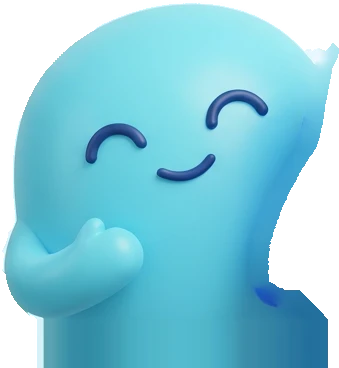
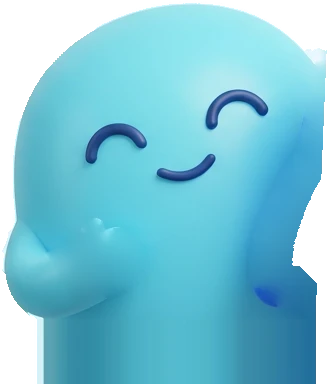
Beranda: animasi hero lebih hidup — menyapa, angin, awan, dan burung
- Siklus sapaan 8 dtk: karakter kiri melambai "hai", karakter tengah melompat (squash & stretch), karakter kanan bersandar, menepuk, dan berkedip
- Hembusan angin 7 dtk: tanaman melengkung, garis angin di langit, daun beterbangan
- Dua awan tambahan melintas penuh; awan lama bergeser lebih jauh
- Sepasang burung siluet mengepakkan sayap melintasi langit
- Lapisan baru dari ilustrasi asli: tangan kiri, lengan kanan, mata kanan, dua daun (total aset ±136 KB)
- Tetap diam seperti gambar aslinya saat prefers-reduced-motion

diff --git a/web/src/pages/employee/HeroScene.tsx b/web/src/pages/employee/HeroScene.tsx
@@ -1,4 +1,4 @@
-import type { CSSProperties } from 'react';
+import type { CSSProperties, ReactNode } from 'react';
 import clsx from 'clsx';
 import sky from '@/assets/home/hero/sky.webp';
 import sunGlow from '@/assets/home/hero/sunGlow.webp';
@@ -8,46 +8,56 @@ import cloudRight from '@/assets/home/hero/cloudRight.webp';
 import cloudLeft from '@/assets/home/hero/cloudLeft.webp';
 import cloudSmall from '@/assets/home/hero/cloudSmall.webp';
 import right from '@/assets/home/hero/right.webp';
+import eyeR1 from '@/assets/home/hero/eyeR1.webp';
+import eyeR2 from '@/assets/home/hero/eyeR2.webp';
 import left from '@/assets/home/hero/left.webp';
+import handL from '@/assets/home/hero/handL.webp';
 import center from '@/assets/home/hero/center.webp';
-import rightArm from '@/assets/home/hero/rightArm.webp';
+import armR from '@/assets/home/hero/armR.webp';
 import plantL from '@/assets/home/hero/plantL.webp';
 import plantR from '@/assets/home/hero/plantR.webp';
 import bubble from '@/assets/home/hero/bubble.webp';
 import dot1 from '@/assets/home/hero/dot1.webp';
 import dot2 from '@/assets/home/hero/dot2.webp';
 import dot3 from '@/assets/home/hero/dot3.webp';
+import leaf1 from '@/assets/home/hero/leaf1.webp';
+import leaf2 from '@/assets/home/hero/leaf2.webp';
 
 // Ilustrasi 3D hero (hero-3d.png, 1376×768) yang dipotong per bagian supaya bisa bergerak.
 // Kotak = [x, y, lebar, tinggi] dalam piksel ilustrasi asli; bagian yang tertutup sudah diisi
-// sehingga gerakan kecil tidak memperlihatkan celah. Dalam posisi diam hasilnya sama dengan gambar aslinya.
+// sehingga gerakan tidak memperlihatkan celah. Dalam posisi diam hasilnya sama dengan gambar aslinya.
 type Box = readonly [number, number, number, number];
 type Point = readonly [number, number];
 
-const SCENE: Box = [0, 0, 1376, 768];
-const BUBBLE: Box = [475, 185, 255, 238];
+const VW = 1376, VH = 768;
+const SCENE: Box = [0, 0, VW, VH];
 const SUN: Point = [1157, 187];
+const BOX = {
+  left: [347, 448, 327, 384],
+  hand: [392, 666, 101, 87],
+  center: [595, 415, 466, 417],
+  right: [979, 437, 320, 395],
+  arm: [992, 609, 208, 85],
+  bubble: [475, 185, 255, 238],
+} as const satisfies Record<string, Box>;
+// Titik poros: kaki tiap karakter, pergelangan tangan kiri, bahu kanan.
+const FOOT = { left: [515, 800], center: [840, 800], right: [1140, 800] } as const satisfies Record<string, Point>;
 
 const pct = (v: number, of: number) => `${(v / of) * 100}%`;
 
-function Layer({
-  src,
-  box,
-  parent = SCENE,
-  origin,
-  className,
-  style,
-}: {
-  src: string;
-  box: Box;
-  parent?: Box;
-  /** Titik poros animasi dalam koordinat ilustrasi. */
-  origin?: Point;
-  className?: string;
-  style?: CSSProperties;
-}) {
-  const [x, y, w, h] = box;
+/** Posisi + poros sebuah kotak di dalam kotak induknya, dalam persen (ikut skala ilustrasi). */
+function place([x, y, w, h]: Box, parent: Box = SCENE, origin?: Point): CSSProperties {
   const [px, py, pw, ph] = parent;
+  return {
+    left: pct(x - px, pw),
+    top: pct(y - py, ph),
+    width: pct(w, pw),
+    height: pct(h, ph),
+    transformOrigin: origin && `${pct(origin[0] - x, w)} ${pct(origin[1] - y, h)}`,
+  };
+}
+
+function Layer({ src, box, parent, origin, className, style }: { src: string; box: Box; parent?: Box; origin?: Point; className?: string; style?: CSSProperties }) {
   return (
     <img
       src={src}
@@ -55,22 +65,56 @@ function Layer({
       draggable={false}
       decoding="async"
       className={clsx('absolute max-w-none select-none', className)}
-      style={{
-        left: pct(x - px, pw),
-        top: pct(y - py, ph),
-        width: pct(w, pw),
-        height: pct(h, ph),
-        transformOrigin: origin && `${pct(origin[0] - x, w)} ${pct(origin[1] - y, h)}`,
-        ...style,
-      }}
+      style={{ ...place(box, parent, origin), ...style }}
     />
   );
 }
 
-const drift = (from: string, to: string, secs: number, delay = 0) =>
-  ({ '--hs-from': from, '--hs-to': to, animationDuration: `${secs}s`, animationDelay: `${delay}s` }) as CSSProperties;
+function Group({ box, origin, className, style, children }: { box: Box; origin?: Point; className?: string; style?: CSSProperties; children: ReactNode }) {
+  return (
+    <div className={clsx('absolute', className)} style={{ ...place(box, SCENE, origin), ...style }}>
+      {children}
+    </div>
+  );
+}
 
-/** Langit, matahari, awan, gelembung chat, dan teman-teman yang menyapa — mengisi wadahnya seperti object-cover. */
+const vars = (v: Record<string, string | number>) => v as CSSProperties;
+
+/** Burung siluet kecil yang mengepakkan sayap (menghadap kanan). */
+function Bird() {
+  return (
+    <svg viewBox="0 0 64 44" className="hs-bird-bob block h-auto w-full overflow-visible">
+      <g fill="#1F4A7A">
+        <path className="hs-flap" d="M20 25C17 13 23 5 32 5 31 13 29 20 28 27Z" opacity=".55" style={{ animationDelay: '-.08s' }} />
+        <path d="M16 25 5 19l3 10Z" />
+        <ellipse cx="30" cy="27" rx="15" ry="11" />
+        <circle cx="45" cy="20" r="8.5" />
+        <path d="m52.5 18.4 6.5 2.6-6.5 2.6Z" fill="#F2B544" />
+        <path className="hs-flap" d="M24 25C22 11 30 3 40 4c-2 8-5 15-8 22Z" />
+      </g>
+      <circle cx="47.6" cy="18.4" r="1.9" fill="#fff" />
+    </svg>
+  );
+}
+
+// Garis angin (koordinat ilustrasi) — muncul saat hembusan, bersamaan dengan daun yang terbang.
+// Semua lewat langit kosong supaya tidak menyilang wajah karakter.
+const WIND = [
+  'M-40 372C150 342 300 405 440 372c40-9 52-40 28-48-18-6-30 12-14 22',
+  'M150 178C300 146 420 204 600 168',
+  'M740 318C880 290 990 350 1150 312c38-10 46-40 22-46-17-4-27 14-11 22',
+  'M880 96C1000 72 1090 118 1240 92',
+];
+
+// Daun yang terbawa angin: titik awal (koordinat ilustrasi) + jalur dalam satuan wadah.
+const LEAVES = [
+  { src: leaf2, at: [300, 600], s: 0.8, delay: 0, path: { '--x1': '16cqw', '--y1': '-16cqh', '--x2': '34cqw', '--y2': '-8cqh', '--x3': '66cqw', '--y3': '-22cqh' } },
+  { src: leaf1, at: [250, 690], s: 0.6, delay: 0.35, path: { '--x1': '20cqw', '--y1': '-6cqh', '--x2': '42cqw', '--y2': '-20cqh', '--x3': '74cqw', '--y3': '-12cqh' } },
+  { src: leaf1, at: [1300, 600], s: 0.7, delay: 0.2, path: { '--x1': '7cqw', '--y1': '-10cqh', '--x2': '13cqw', '--y2': '-4cqh', '--x3': '22cqw', '--y3': '-14cqh' } },
+  { src: leaf2, at: [-40, 260], s: 0.55, delay: 0.5, path: { '--x1': '22cqw', '--y1': '6cqh', '--x2': '48cqw', '--y2': '-2cqh', '--x3': '84cqw', '--y3': '8cqh' } },
+] as const;
+
+/** Langit, matahari, awan, burung, gelembung chat, dan teman-teman yang menyapa — mengisi wadahnya seperti object-cover. */
 export function HeroScene({ className }: { className?: string }) {
   return (
     <div className={clsx('pointer-events-none overflow-hidden [container-type:size]', className)} aria-hidden>
@@ -80,31 +124,72 @@ export function HeroScene({ className }: { className?: string }) {
         <Layer src={sunGlow} box={[1008, 38, 299, 299]} origin={SUN} className="hs-breathe" />
         <Layer src={sunRays} box={[1008, 40, 296, 296]} origin={SUN} className="hs-spin" />
 
-        <Layer src={cloudTop} box={[764, 147, 204, 117]} className="hs-drift" style={drift('-6%', '8%', 15, -4)} />
+        {/* Awan yang melintas penuh dari kiri ke kanan (salinan awan atas) */}
+        <Layer src={cloudTop} box={[0, 40, 140, 80]} className="hs-travel" style={vars({ '--o': 0.95, animationDuration: '38s', animationDelay: '-12s' })} />
+        <Layer src={cloudTop} box={[0, 250, 96, 55]} className="hs-travel" style={vars({ '--o': 0.75, animationDuration: '54s', animationDelay: '-34s' })} />
+
+        <Layer src={cloudTop} box={[764, 147, 204, 117]} className="hs-drift" style={vars({ '--hs-from': '-14%', '--hs-to': '16%', animationDuration: '12s', animationDelay: '-4s' })} />
         {/* Awan yang terpotong tepi gambar / tertutup karakter hanya bergeser ke arah potongannya. */}
-        <Layer src={cloudRight} box={[1209, 307, 167, 143]} className="hs-drift" style={drift('0%', '10%', 18, -9)} />
-        <Layer src={cloudLeft} box={[0, 397, 141, 144]} className="hs-drift" style={drift('0%', '-12%', 20, -3)} />
-        <Layer src={cloudSmall} box={[297, 459, 162, 124]} className="hs-drift" style={drift('-4%', '6%', 13, -6)} />
+        <Layer src={cloudRight} box={[1209, 307, 167, 143]} className="hs-drift" style={vars({ '--hs-from': '0%', '--hs-to': '14%', animationDuration: '14s', animationDelay: '-9s' })} />
+        <Layer src={cloudLeft} box={[0, 397, 141, 144]} className="hs-drift" style={vars({ '--hs-from': '0%', '--hs-to': '-16%', animationDuration: '15s', animationDelay: '-3s' })} />
+        <Layer src={cloudSmall} box={[297, 459, 166, 128]} className="hs-drift" style={vars({ '--hs-from': '-6%', '--hs-to': '8%', animationDuration: '10s', animationDelay: '-6s' })} />
 
-        {/* Karakter kanan di belakang, tangannya di depan karakter tengah — keduanya bergerak bersamaan. */}
-        <Layer src={right} box={[967, 437, 332, 379]} origin={[1130, 790]} className="hs-sway" style={{ animationDelay: '-2.1s' }} />
-        <Layer src={left} box={[347, 448, 339, 368]} origin={[515, 790]} className="hs-sway" />
-        <Layer src={center} box={[595, 415, 492, 401]} origin={[840, 790]} className="hs-hop" />
-        <Layer src={rightArm} box={[992, 622, 17, 54]} origin={[1130, 790]} className="hs-sway" style={{ animationDelay: '-2.1s' }} />
-
-        <Layer src={plantL} box={[217, 601, 160, 199]} origin={[296, 768]} className="hs-leaf" />
-        <Layer src={plantR} box={[1235, 591, 141, 209]} origin={[1305, 768]} className="hs-leaf" style={{ animationDelay: '-2.7s' }} />
-
-        <div
-          className="hs-float absolute"
-          style={{ left: pct(BUBBLE[0], 1376), top: pct(BUBBLE[1], 768), width: pct(BUBBLE[2], 1376), height: pct(BUBBLE[3], 768), transformOrigin: '84% 98%' }}
-        >
-          <Layer src={bubble} box={BUBBLE} parent={BUBBLE} />
-          {/* Titik "sedang mengetik" */}
-          <Layer src={dot1} box={[533, 277, 33, 33]} parent={BUBBLE} className="hs-dot" />
-          <Layer src={dot2} box={[587, 277, 32, 33]} parent={BUBBLE} className="hs-dot" style={{ animationDelay: '.18s' }} />
-          <Layer src={dot3} box={[639, 277, 34, 33]} parent={BUBBLE} className="hs-dot" style={{ animationDelay: '.36s' }} />
+        {/* Sepasang burung siluet */}
+        <div className="hs-bird absolute" style={{ left: '-6%', top: '13%', width: '5%' }}>
+          <Bird />
         </div>
+        <div className="hs-bird absolute" style={{ left: '-10%', top: '20%', width: '3.4%', animationDelay: '.9s' }}>
+          <Bird />
+        </div>
+
+        {/* Karakter kanan (di belakang): bersandar ke tengah lalu menepuk-nepuk, matanya berkedip */}
+        <Group box={BOX.right} origin={FOOT.right} className="hs-right">
+          <Layer src={right} box={BOX.right} parent={BOX.right} />
+          <Layer src={eyeR1} box={[1031, 525, 36, 37]} parent={BOX.right} origin={[1050, 542]} className="hs-blink" />
+          <Layer src={eyeR2} box={[1128, 550, 36, 36]} parent={BOX.right} origin={[1146, 567]} className="hs-blink" />
+        </Group>
+        {/* Karakter kiri: bergoyang sambil melambaikan tangan "hai!" */}
+        <Group box={BOX.left} origin={FOOT.left} className="hs-left">
+          <Layer src={left} box={BOX.left} parent={BOX.left} />
+          <Layer src={handL} box={BOX.hand} parent={BOX.left} origin={[405, 726]} className="hs-wave" />
+        </Group>
+        {/* Karakter tengah: ancang-ancang lalu melompat kegirangan */}
+        <Layer src={center} box={BOX.center} origin={FOOT.center} className="hs-center" />
+        {/* Tangan kanan ada di depan karakter tengah — gerakannya sama persis dengan badannya. */}
+        <Group box={BOX.arm} origin={FOOT.right} className="hs-right">
+          <Layer src={armR} box={BOX.arm} parent={BOX.arm} origin={[1195, 662]} className="hs-pat" />
+        </Group>
+
+        {/* Tanaman tertiup angin */}
+        <Layer src={plantL} box={[217, 601, 160, 207]} origin={[296, 768]} className="hs-gust" />
+        <Layer src={plantR} box={[1235, 591, 141, 217]} origin={[1305, 768]} className="hs-gust" style={{ animationDelay: '.25s' }} />
+
+        <svg viewBox={`0 0 ${VW} ${VH}`} className="absolute inset-0 h-full w-full overflow-visible">
+          <g fill="none" stroke="#fff" strokeWidth="5" strokeLinecap="round">
+            {WIND.map((d, i) => (
+              <path key={d} d={d} pathLength={100} className="hs-wind" style={{ animationDelay: `${i * 0.18}s` }} />
+            ))}
+          </g>
+        </svg>
+
+        <Group box={BOX.bubble} origin={[690, 418]} className="hs-float">
+          <Layer src={bubble} box={BOX.bubble} parent={BOX.bubble} />
+          {/* Titik "sedang mengetik" */}
+          <Layer src={dot1} box={[533, 277, 33, 33]} parent={BOX.bubble} className="hs-dot" />
+          <Layer src={dot2} box={[587, 277, 32, 33]} parent={BOX.bubble} className="hs-dot" style={{ animationDelay: '.18s' }} />
+          <Layer src={dot3} box={[639, 277, 34, 33]} parent={BOX.bubble} className="hs-dot" style={{ animationDelay: '.36s' }} />
+        </Group>
+
+        {LEAVES.map((l, i) => (
+          <img
+            key={i}
+            src={l.src}
+            alt=""
+            draggable={false}
+            className="hs-leaf-fly absolute max-w-none select-none"
+            style={vars({ left: pct(l.at[0], VW), top: pct(l.at[1], VH), width: pct(58, VW), '--s': l.s, animationDelay: `${l.delay}s`, ...l.path })}
+          />
+        ))}
       </div>
     </div>
   );

diff --git a/web/src/index.css b/web/src/index.css
@@ -226,35 +226,120 @@
 @keyframes lgEllipsis { from { clip-path: inset(0 100% 0 0); } to { clip-path: inset(0 -10% 0 0); } }
 
 /* ---- Beranda pekerja: ilustrasi hero yang hidup (pages/employee/HeroScene.tsx) ---- */
-/* Karakter kanan & tangannya memakai animasi yang sama tanpa translate %, supaya tetap menempel. */
-.hs-breathe { animation: hsBreathe 4.5s ease-in-out infinite alternate; }
-.hs-spin { animation: hsSpin 50s linear infinite; }
-.hs-drift { animation: hsDrift 16s ease-in-out infinite alternate; }
-.hs-sway { animation: hsSway 4.2s ease-in-out infinite; }
-.hs-hop { animation: hsHop 4.2s ease-in-out infinite; }
-.hs-leaf { animation: hsLeaf 5.5s ease-in-out infinite alternate; }
-.hs-float { animation: hsFloat 3.6s ease-in-out infinite alternate; }
-.hs-dot { animation: hsDot 1.5s ease-in-out infinite; }
+/* Siklus sapaan 8 dtk: kiri melambai → tengah melompat → kanan bersandar & menepuk. Hembusan angin 7 dtk. */
+/* Badan kanan & tangannya memakai keyframe yang sama (hanya rotate/scale) supaya tetap menempel. */
+.hs-breathe { animation: hsBreathe 4s ease-in-out infinite alternate; }
+.hs-spin { animation: hsSpin 40s linear infinite; }
+.hs-drift { animation: hsDrift 12s ease-in-out infinite alternate; }
+.hs-travel { opacity: 0; animation: hsTravel 40s linear infinite; }
+.hs-left { animation: hsLeftHi 8s ease-in-out infinite; }
+.hs-wave { animation: hsWave 8s ease-in-out infinite; }
+.hs-center { animation: hsCenterHop 8s ease-in-out infinite; }
+.hs-right { animation: hsRightHug 8s ease-in-out infinite; }
+.hs-pat { animation: hsPat 8s ease-in-out infinite; }
+.hs-blink { animation: hsBlink 8s linear infinite; }
+.hs-gust { animation: hsGust 7s ease-in-out infinite; }
+.hs-wind { opacity: 0; stroke-dasharray: 30 100; stroke-dashoffset: 30; animation: hsWind 7s ease-in-out infinite; }
+.hs-leaf-fly { opacity: 0; animation: hsLeafFly 7s ease-in-out infinite; }
+.hs-float { animation: hsFloat 3.2s ease-in-out infinite alternate; }
+.hs-dot { animation: hsDot 1.4s ease-in-out infinite; }
+.hs-bird { opacity: 0; animation: hsBird 18s linear infinite; }
+.hs-bird-bob { animation: hsBirdBob 1.3s ease-in-out infinite alternate; }
+.hs-flap { transform-box: fill-box; transform-origin: 50% 100%; animation: hsFlap .34s ease-in-out infinite alternate; }
 .hm-confetti { opacity: 0; animation: hmConfetti 3.6s linear infinite; }
 
-@keyframes hsBreathe { to { transform: scale(1.05); } }
+@keyframes hsBreathe { to { transform: scale(1.08); } }
 @keyframes hsSpin { to { transform: rotate(360deg); } }
 @keyframes hsDrift { from { transform: translateX(var(--hs-from, 0)); } to { transform: translateX(var(--hs-to, 8%)); } }
-@keyframes hsSway {
-  0%, 100% { transform: rotate(0) scale(1, 1); }
-  25% { transform: rotate(-1.6deg) scale(1, 1.015); }
-  50% { transform: rotate(0) scale(1, .995); }
-  75% { transform: rotate(1.6deg) scale(1, 1.015); }
+@keyframes hsTravel {
+  0% { opacity: 0; transform: translateX(-25cqw); }
+  6%, 94% { opacity: var(--o, .9); }
+  100% { opacity: 0; transform: translateX(125cqw); }
 }
-@keyframes hsHop {
-  0%, 44%, 100% { transform: none; }
-  14% { transform: translateY(-2.4%) scale(.99, 1.02); }
-  28% { transform: translateY(0) scale(1.025, .975); }
-  36% { transform: translateY(-.6%); }
+/* Condong ke kanan (ke balik karakter tengah) lebih jauh daripada ke kiri, supaya tidak ada celah di antara mereka. */
+@keyframes hsLeftHi {
+  0%, 100% { transform: none; }
+  5% { transform: rotate(-1.5deg) scale(1.03, .97); }
+  12% { transform: translateY(-3%) rotate(4deg) scale(.98, 1.04); }
+  18% { transform: rotate(-1.5deg); }
+  24% { transform: translateY(-3%) rotate(4deg) scale(.98, 1.04); }
+  30% { transform: rotate(-1deg); }
+  36% { transform: rotate(2.5deg); }
+  44% { transform: none; }
+  62% { transform: rotate(1.6deg); }
+  80% { transform: rotate(-1deg); }
 }
-@keyframes hsLeaf { from { transform: rotate(-2deg); } to { transform: rotate(2.5deg); } }
-@keyframes hsFloat { from { transform: translateY(1%) rotate(1deg); } to { transform: translateY(-3.5%) rotate(-2deg); } }
-@keyframes hsDot { 0%, 55%, 100% { transform: translateY(0); } 25% { transform: translateY(-20%); } }
+@keyframes hsWave {
+  0%, 6%, 42%, 100% { transform: none; }
+  10%, 20%, 30% { transform: rotate(-18deg); }
+  15%, 25% { transform: rotate(7deg); }
+  35% { transform: rotate(4deg); }
+}
+@keyframes hsCenterHop {
+  0%, 40%, 82%, 100% { transform: none; }
+  20% { transform: scale(1.012, .988); }
+  46% { transform: scale(1.07, .93); }
+  54% { transform: translateY(-7%) scale(.95, 1.07); }
+  62% { transform: scale(1.08, .92); }
+  68% { transform: translateY(-3%) scale(.98, 1.03); }
+  74% { transform: scale(1.03, .97); }
+}
+@keyframes hsRightHug {
+  0%, 100% { transform: none; }
+  12% { transform: rotate(1.6deg); }
+  26% { transform: rotate(-1.2deg); }
+  40% { transform: none; }
+  62% { transform: rotate(-5deg) scale(1, 1.03); }
+  70% { transform: rotate(-4deg); }
+  78% { transform: rotate(-5deg) scale(1, 1.02); }
+  88% { transform: rotate(-3deg); }
+  96% { transform: none; }
+}
+@keyframes hsPat {
+  0%, 60%, 92%, 100% { transform: none; }
+  66%, 74%, 82% { transform: rotate(6deg); }
+  70%, 78%, 86% { transform: none; }
+}
+@keyframes hsBlink {
+  0%, 29%, 33%, 84%, 88%, 90%, 94%, 100% { transform: scaleY(1); }
+  31%, 86%, 92% { transform: scaleY(.1); }
+}
+@keyframes hsGust {
+  0%, 100% { transform: none; }
+  15% { transform: rotate(2deg); }
+  30% { transform: rotate(-1.5deg); }
+  45% { transform: rotate(1deg); }
+  52% { transform: rotate(10deg); }
+  58% { transform: rotate(7deg); }
+  64% { transform: rotate(12deg); }
+  74% { transform: rotate(-4deg); }
+  84% { transform: rotate(2deg); }
+  92% { transform: rotate(-1deg); }
+}
+@keyframes hsWind {
+  0%, 44% { opacity: 0; stroke-dashoffset: 30; }
+  50%, 66% { opacity: .9; }
+  72%, 100% { opacity: 0; stroke-dashoffset: -100; }
+}
+@keyframes hsLeafFly {
+  0%, 46% { opacity: 0; transform: scale(var(--s, 1)); }
+  50% { opacity: 1; }
+  62% { transform: translate(var(--x1), var(--y1)) rotate(150deg) scale(var(--s, 1)); }
+  74% { transform: translate(var(--x2), var(--y2)) rotate(300deg) scale(var(--s, 1)); }
+  86% { opacity: 1; }
+  92%, 100% { opacity: 0; transform: translate(var(--x3), var(--y3)) rotate(460deg) scale(var(--s, 1)); }
+}
+@keyframes hsFloat { from { transform: translateY(2%) rotate(2deg); } to { transform: translateY(-6%) rotate(-3deg); } }
+@keyframes hsDot { 0%, 55%, 100% { transform: translateY(0); } 25% { transform: translateY(-24%); } }
+@keyframes hsBird {
+  0% { opacity: 0; transform: translate(0, 0); }
+  3%, 66% { opacity: 1; }
+  35% { transform: translate(58cqw, -5cqh); }
+  70% { opacity: 1; transform: translate(122cqw, 3cqh); }
+  71%, 100% { opacity: 0; transform: translate(122cqw, 3cqh); }
+}
+@keyframes hsBirdBob { to { transform: translateY(-22%); } }
+@keyframes hsFlap { to { transform: scaleY(-.65); } }
 @keyframes hmConfetti {
   0% { opacity: 0; transform: translateY(-24px) rotate(0); }
   10% { opacity: 1; }
